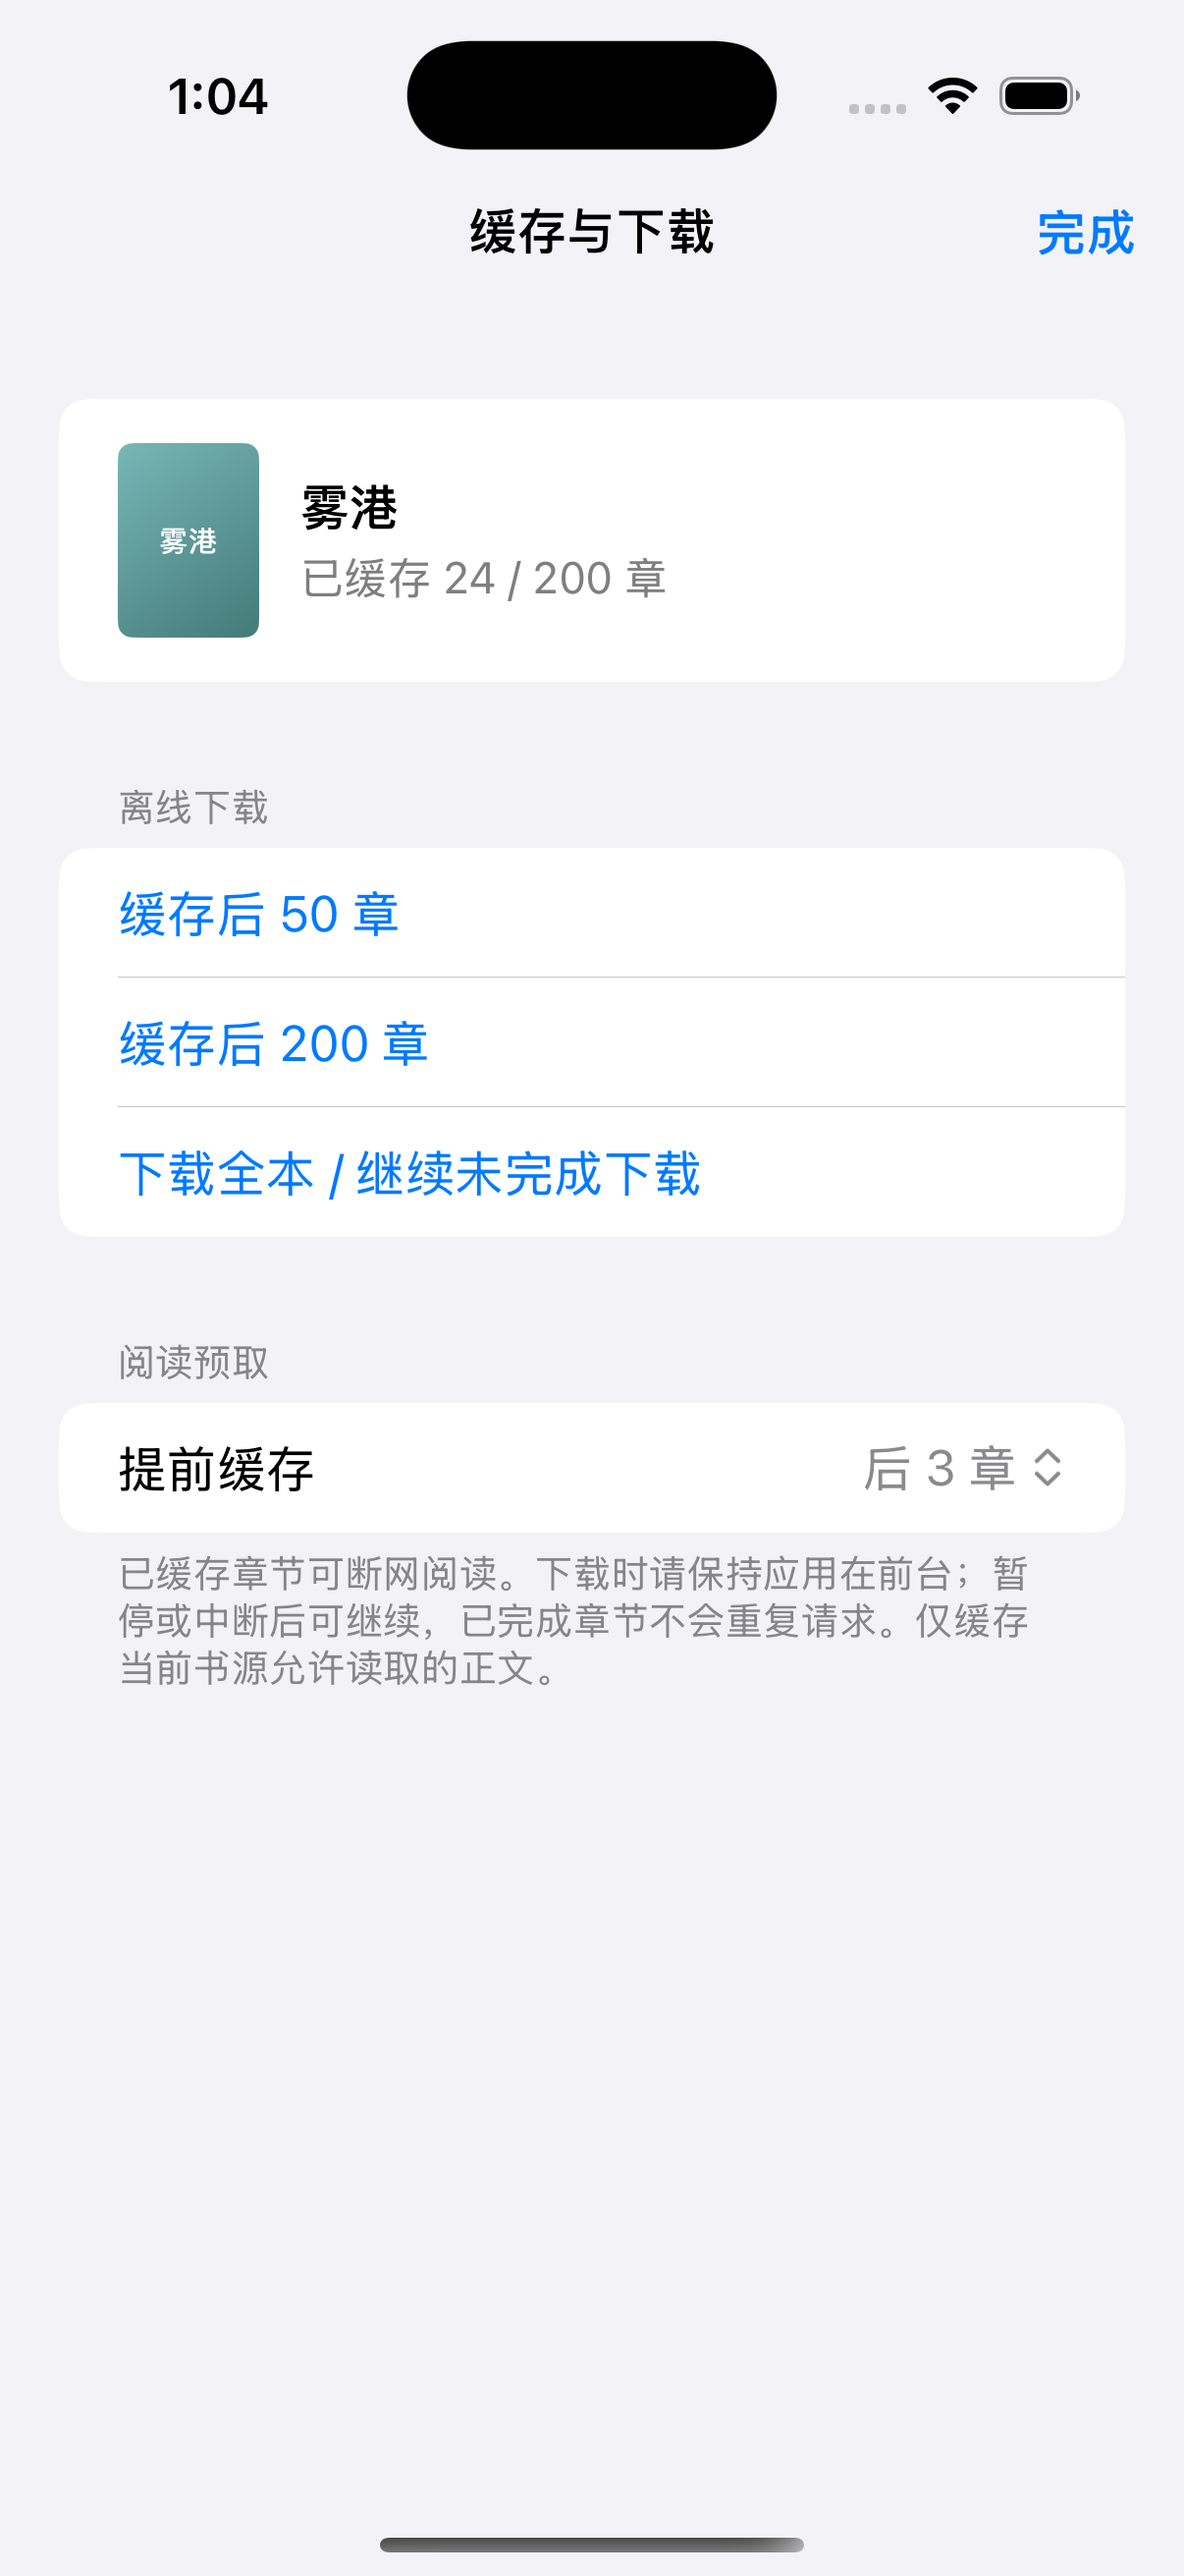
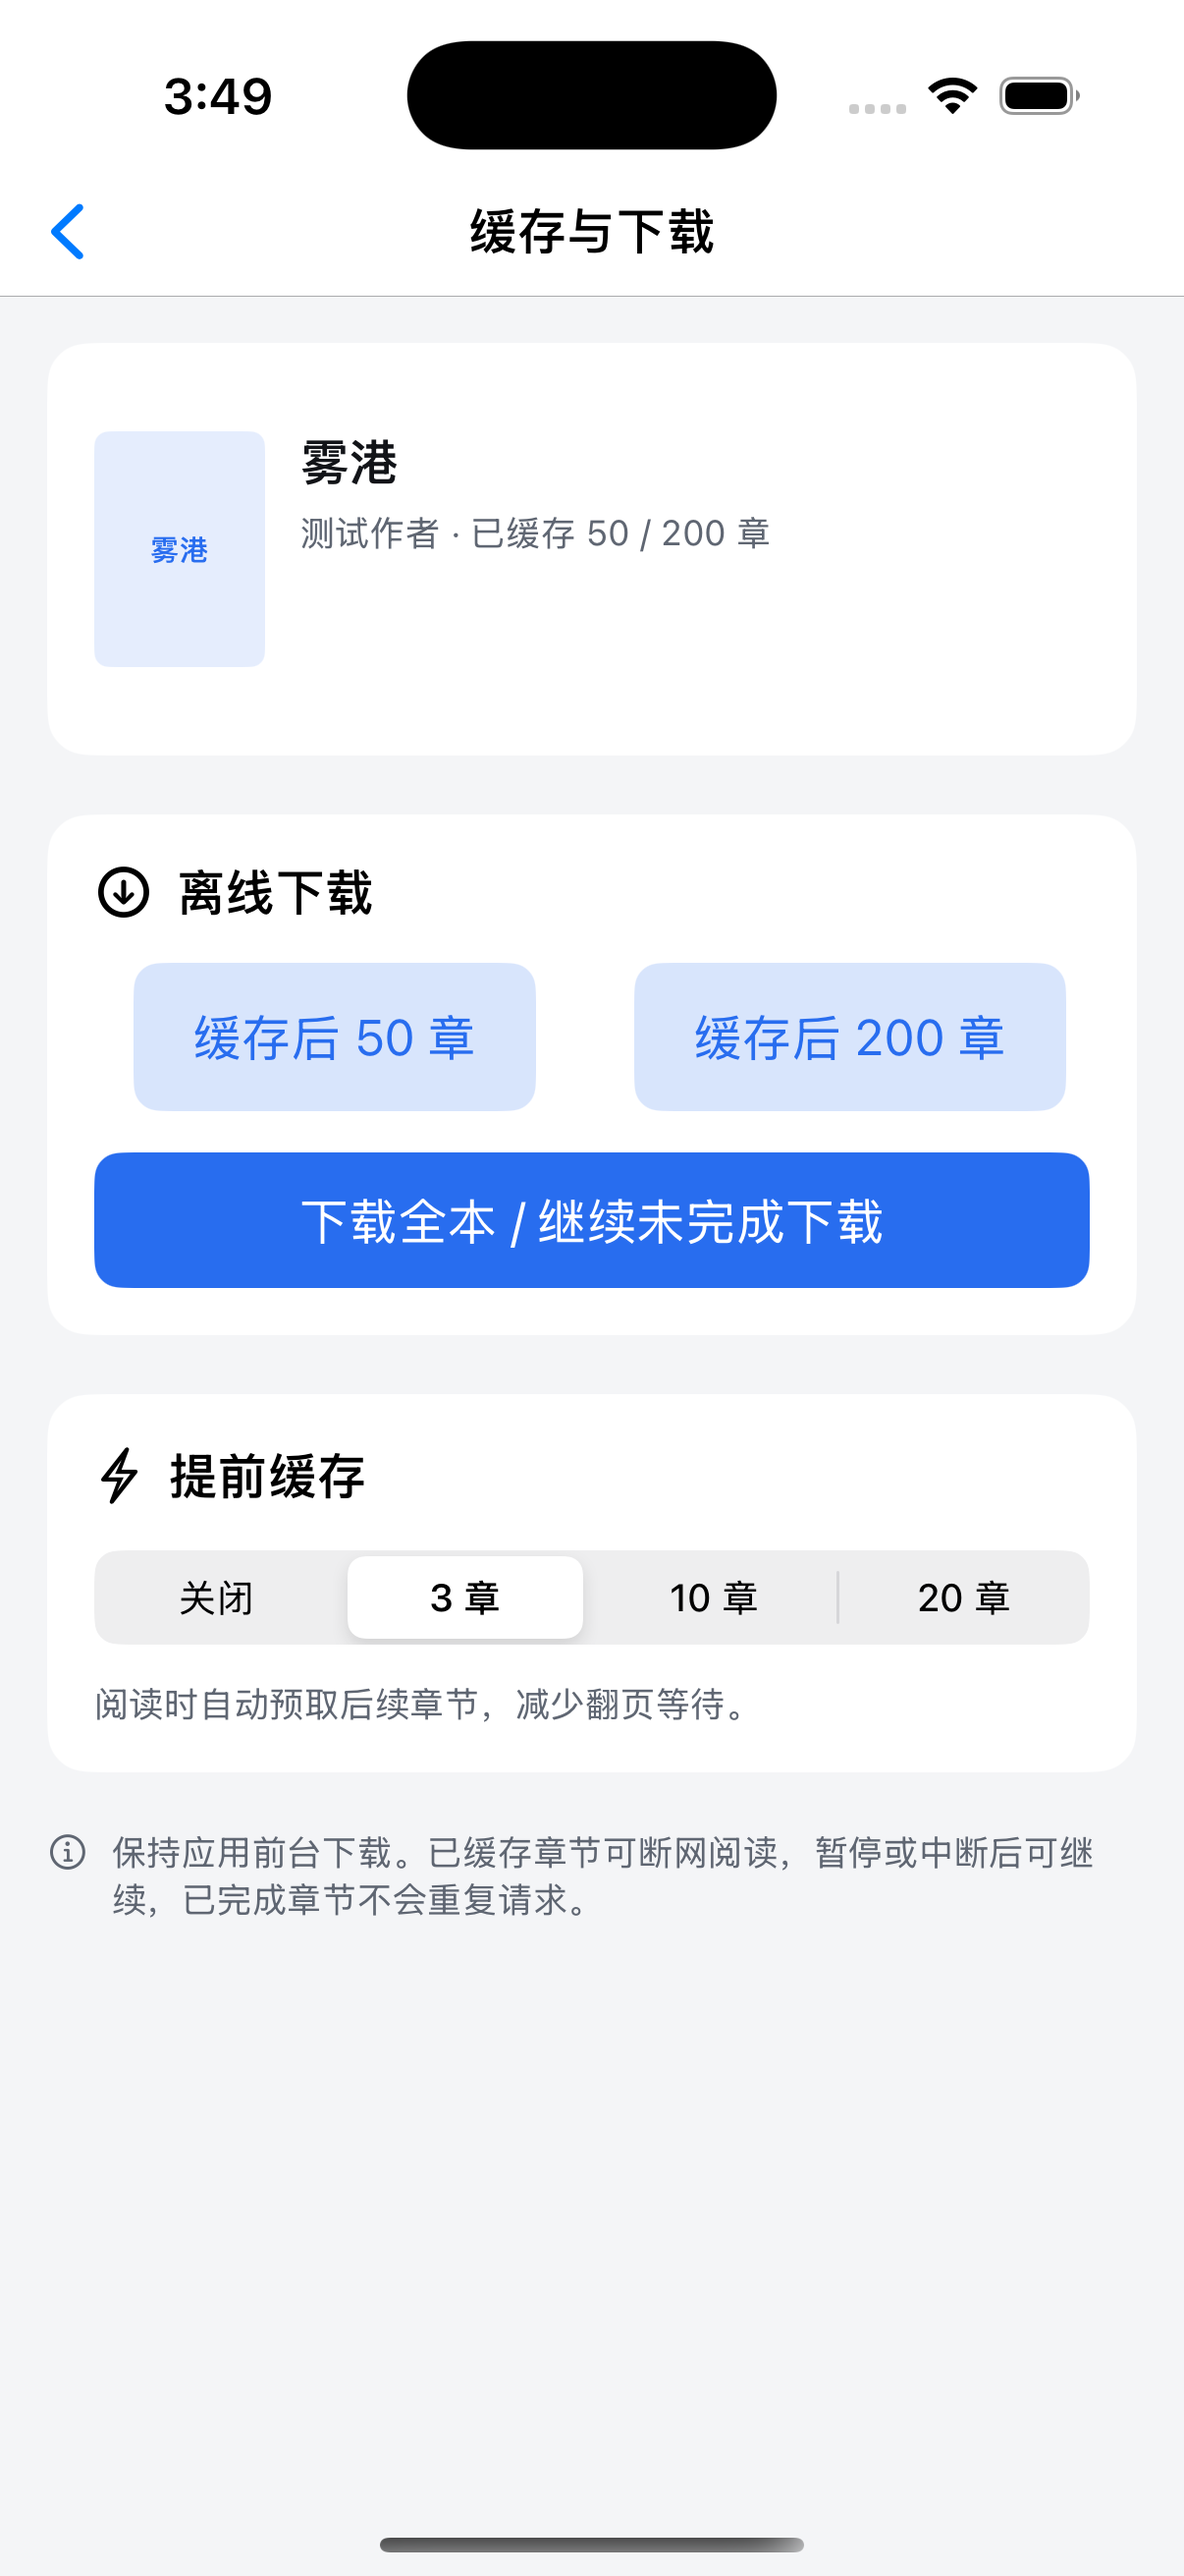
docs: publish novel 1.5.10 links and real-source verification

diff --git a/README.md b/README.md
@@ -8,8 +8,8 @@ i短剧 是一个原生 SwiftUI 编写的 iOS 多源短剧 / 视频 / 漫画 / T
 [Android 版](#android-版)。App 本身**不托管任何内容**，所有数据都由你的设备直接向各个公开站点请求。
 
 **下载**：到 [Releases](https://github.com/my-name-is-alan/iDuanJu/releases) 获取 iOS 未签名 IPA 和 Android APK
-（[Android 1.5.9 小说增强版](https://github.com/my-name-is-alan/iDuanJu/releases/tag/v1.5.9-novel-android)、
-[iOS 1.5 build 9 小说增强版](https://github.com/my-name-is-alan/iDuanJu/releases/tag/v1.5b9-novel)）。
+（[Android 1.5.10 小说统一主题版](https://github.com/my-name-is-alan/iDuanJu/releases/tag/v1.5.10-novel-android)、
+[iOS 1.5 build 10 小说统一主题版](https://github.com/my-name-is-alan/iDuanJu/releases/tag/v1.5b10-novel)）。
 
 新版包含小说改动和上一版红果取流、筛选修复。Android 与 1.5.8 使用同一分发签名，可下载 APK 覆盖安装；iOS IPA 需自行重签侧载。请下载 Assets 中的 APK / IPA，SHA-256 见同页附件。
 
@@ -17,7 +17,7 @@ i短剧 是一个原生 SwiftUI 编写的 iOS 多源短剧 / 视频 / 漫画 / T
 
 - 按真实合集 1335 修复发现分组、JS 生成请求、部分脚本与正文兼容，榜单改为顶部分组＋左侧栏目＋封面排名列表。
 - 详情和阅读页加入缓存 / 下载、预取章数设置、同书换源与章节进度接续；已缓存文字可离线读取，失败后可继续下载。
-- 七猫、乐读、望书阁抽样正文与缓存已验证；番茄复杂 Java I/O、图片正文、部分被 403 拦截的源仍不完整支持。完整范围见 [真实合集验收记录](docs/novel-validation-20261117.md)。旧 `hgfix` 安装包不含小说改动，请使用上方新版。
+- 番茄《十日终焉》、书旗《凡人修仙传》的榜单、搜索、目录、前三章正文及离线缓存已实际验证，并修复 Android 设备上的 ICU 正则与 JSON 桥接差异。小说榜单、搜索、书源配置和缓存页统一使用应用蓝色主题及浅深色背景。完整范围见 [本轮验收记录](docs/novel-followup-20261117.md)；图片正文和部分 403 来源仍不支持。旧 `hgfix` 安装包不含小说改动，请使用上方新版。
 
 使用：小说 → 书源 → 导入自己的 Legado 合集 → 在榜单顶部选源、左侧选栏目。详情或阅读页进入“下载 / 缓存”，可缓存后 50 / 200 章或全本、调整提前缓存章数；“换源”会查找同名同作者书籍并接续章节。下载时保持应用前台，已缓存文字可离线阅读。本轮用 [合集 1335](https://www.yckceo.com/yuedu/shuyuans/json/id/1335.json) 做测试，不把第三方书源内置到安装包。
 
@@ -115,7 +115,7 @@ scripts/package.sh            # 输出到 ./dist/STV-<版本>-unsigned.ipa
 ## Android 版
 
 位于 [`android/`](android/)：原生 **Kotlin + Jetpack Compose + Media3（ExoPlayer）**，插件运行时为 QuickJS，
-目标与 iOS 功能对齐。**minSdk 26（Android 8.0）/ targetSdk 35**。当前版本 **1.5.9**（预发布）。
+目标与 iOS 功能对齐。**minSdk 26（Android 8.0）/ targetSdk 35**。当前版本 **1.5.10**（预发布）。
 
 ```bash
 # 要求 JDK 21 + Android SDK（platform 35）

diff --git a/android/README.md b/android/README.md
@@ -2,12 +2,11 @@
 
 原生 Kotlin + Jetpack Compose，目标与 iOS 功能对齐。计划见 [PLAN_ZH.md](PLAN_ZH.md)，进度见 [PROGRESS.md](PROGRESS.md)。
 
-当前版本：**1.5.9-android (1509)**。
+当前版本：**1.5.10-android (1510)**。
 
-下载 [1.5.9 小说增强版](https://github.com/my-name-is-alan/iDuanJu/releases/tag/v1.5.9-novel-android)：包含小说改动及上一版红果修复；与 1.5.8 分发签名相同，可覆盖安装。下载 APK，SHA-256 见 Release 附件。
+下载 [1.5.10 小说统一主题版](https://github.com/my-name-is-alan/iDuanJu/releases/tag/v1.5.10-novel-android)：包含小说改动及上一版红果修复；与 1.5.8 分发签名相同，可覆盖安装。下载 APK，SHA-256 见 Release 附件。
 
-本轮新增：剧星榜、小说 TXT / 基础阅读书源（导入、搜索、发现、目录、章节阅读与续读）、预加载开关、缓存上限。
-修复 CMS 分类反馈、CENC 元数据解析、去广告开关持久化和缓存保存检查。
+本轮修复番茄脚本兼容及 Android ICU 正则、JSON 桥接差异；番茄、书旗的榜单、搜索、目录、前三章正文及离线缓存已在 Android 模拟器实网验证。榜单、搜索、书源配置、缓存下载统一使用应用主题，书源配置与下载改为完整页面。详见 [本轮验收记录](../docs/novel-followup-20261117.md)。
 
 小说支持 CSS/Jsoup、JSONPath、部分 XPath / JS、GET/POST、分页、分组发现、预取、离线下载与同书换源。已用用户提供的合集 1335 检查；不是全部书源都可用，详见 [验收记录](../docs/novel-validation-20261117.md)。完整 Java/WebView 兼容、EPUB 文件导入与朗读尚未完成。旧 `hgfix` APK 不含上述小说改动。
 
